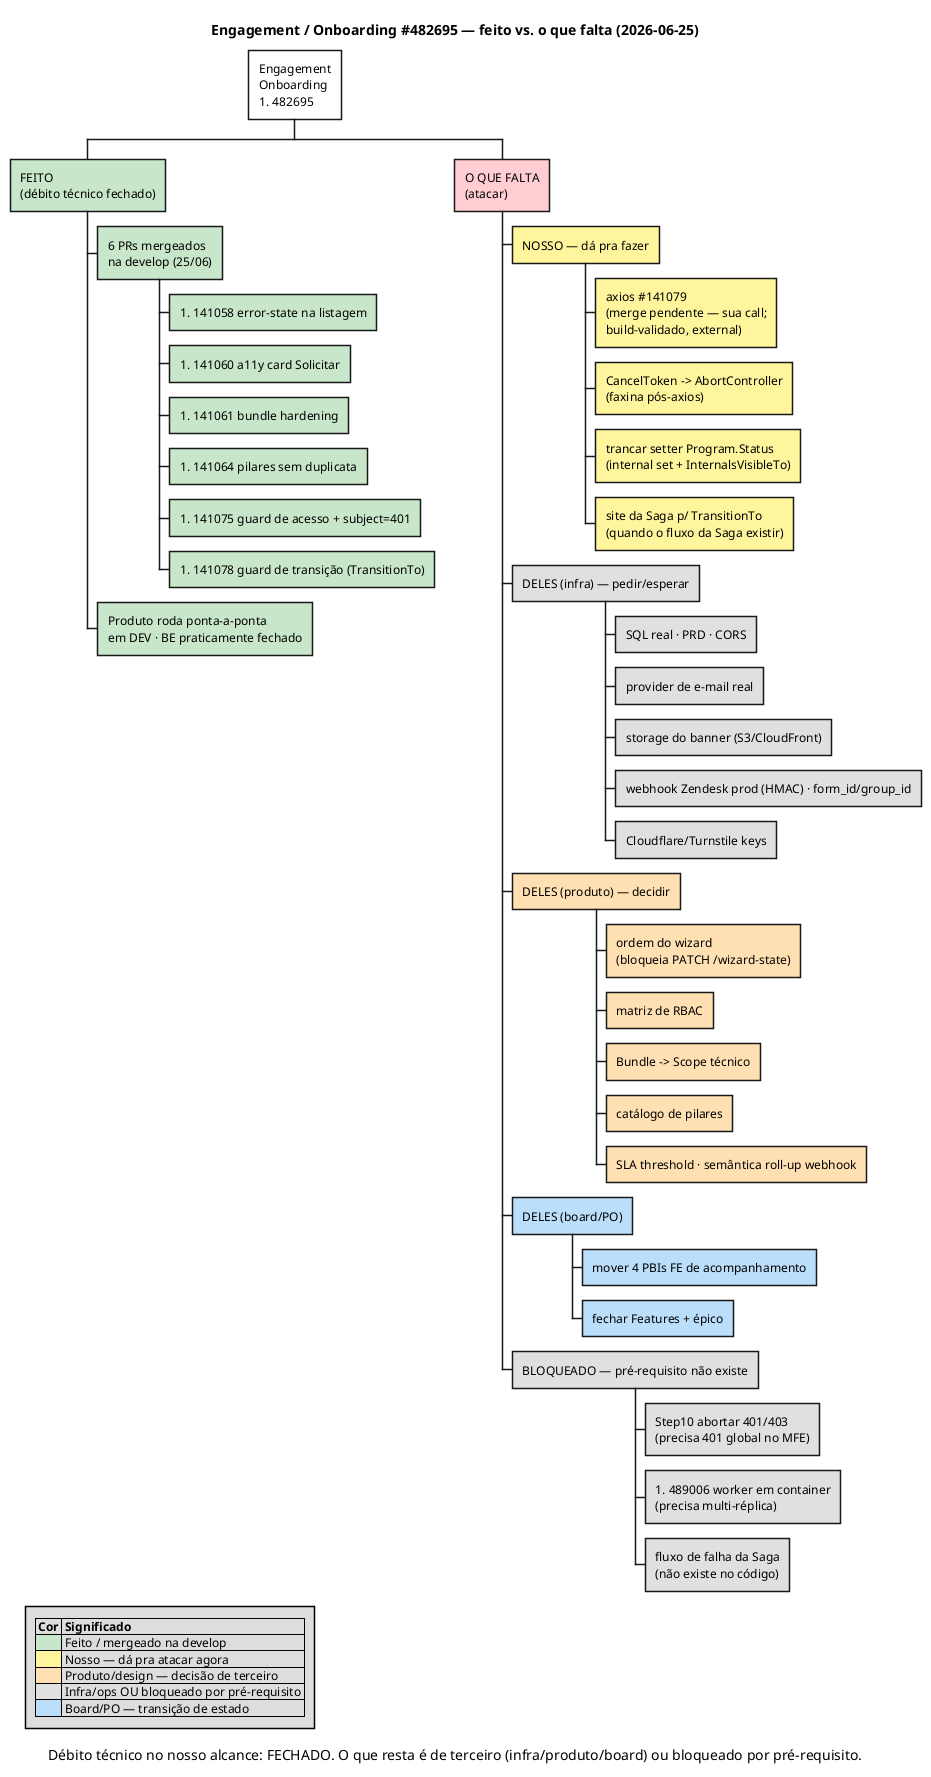
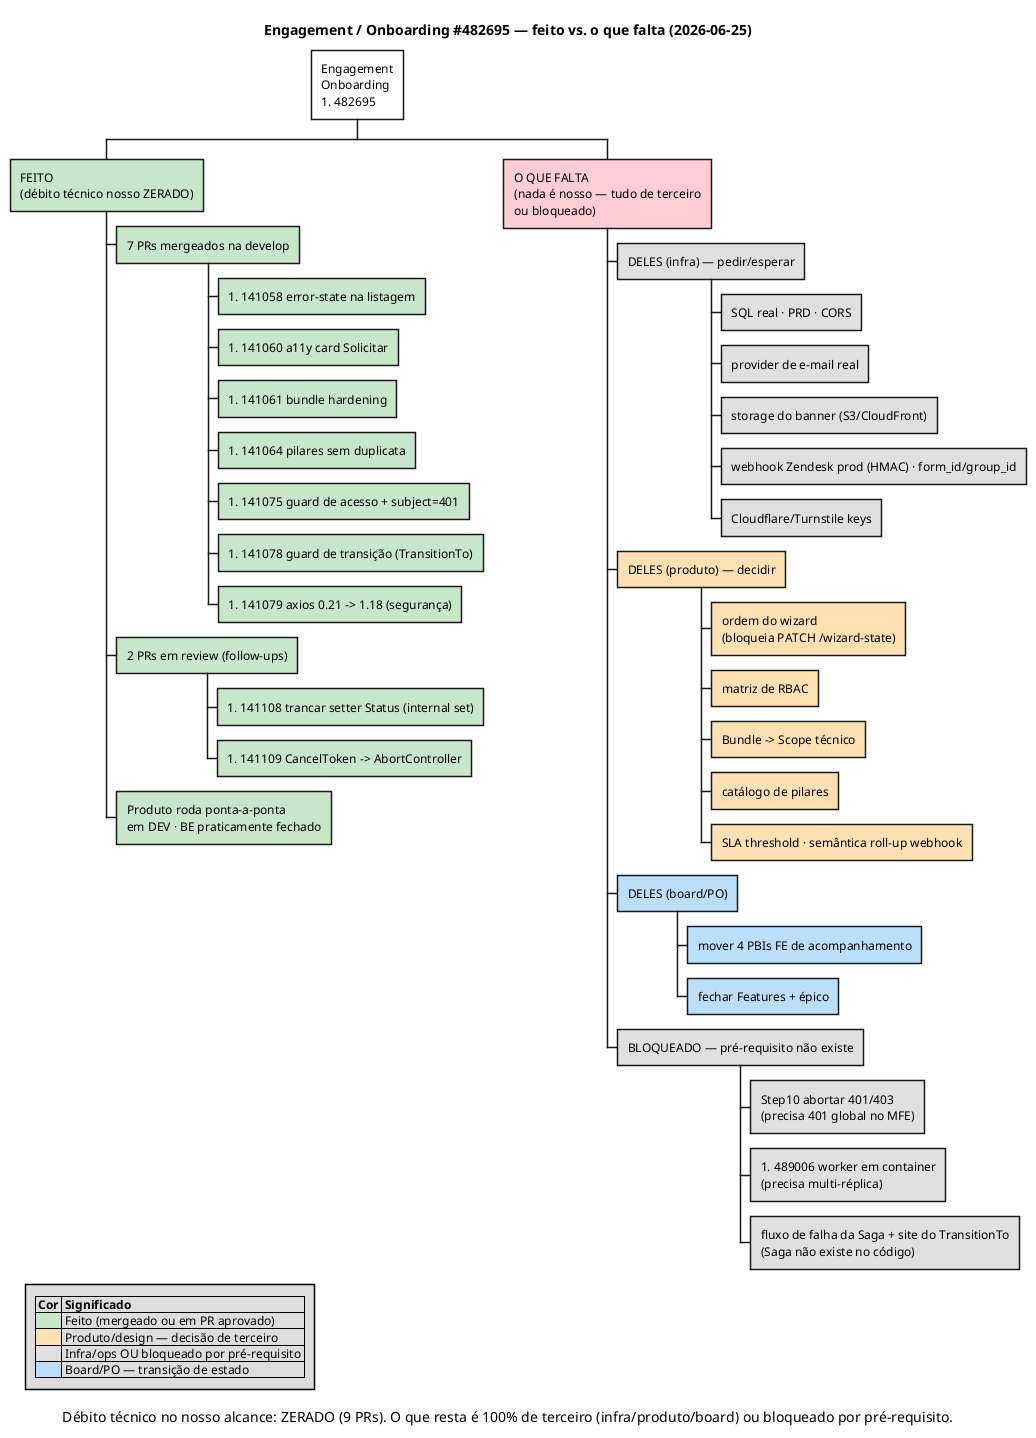
docs(onboarding): débito técnico nosso ZERADO — fecha setter lock (#141108) + AbortController (#141109)

diff --git a/docs/onboarding/pendencias.md b/docs/onboarding/pendencias.md
@@ -22,9 +22,10 @@ Leva fechando o débito de código que estava **no nosso alcance**. 7 PRs aberto
 ### Follow-ups novos (gerados nesta leva)
 
 - **Migration in-place #487205 — confirmar premissa:** o `defaultValue` da `20260608142056_AddBundleSelectionToProgram` foi editado de `""` p/ `"[]"` **assumindo que nenhum SQL persistente aplicou a migration ainda** (DEV roda InMemory). Confirmar com o time antes de promover; se algum ambiente já aplicou, o default lá fica `""` (inócuo — o reader trata `IsNullOrEmpty`).
-- **Setter de `Program.Status` segue público** — `TransitionTo` guarda os 4 sites reais, mas o setter não está trancado (ergonomia de EF + seed do `ProgramBuilder`). Trancar de vez exigiria `internal set` + `InternalsVisibleTo`/factory. Dívida menor aceita.
+- ~~**Setter de `Program.Status` segue público**~~ — RESOLVIDO (25/06): trancado com `internal set` + `[InternalsVisibleTo]` (Test.Shared/Unit/Integration). Produção só muda via `TransitionTo` (compiler-verified, CS0272 se houvesse set cru); EF materializa via reflection; seed de teste via InternalsVisibleTo. **PR #141108**.
 - **Fluxo de falha de provisionamento da Saga sem site de `TransitionTo`** — o `CanTransitionTo` permite `Provisioning→Failed`/`Failed→Provisioning`, mas nenhum código dispara hoje (a Saga de reversão não existe). Quando entrar, usar `TransitionTo` (não setar `Status` direto).
-- **axios `CancelToken` → `AbortController`** — o bump #141079 manteve `CancelToken` (deprecated, mas funcional no 1.x; sai só no 2.x). Migrar os 8 arquivos quando fizer a faxina.
+- ~~**axios `CancelToken` → `AbortController`**~~ — RESOLVIDO (25/06): migrados os 9 fontes (services + hooks + Step3) de `CancelToken.source()` p/ `AbortController` (`signal`/`abort()`); `Axios.isCancel` mantido. tsc 0 + jest 316. **PR #141109**.
+- **`useOnboarding.ts` é código morto** (nenhum caller; `Promise<any>` em todos os métodos + bug pré-existente de `signal` indo como body do POST em `activate`/`inactivate`). Candidato a remover o arquivo + a interface em `adminContext.ts`. Achado no review do #141109.
 - **axios 1.x: serialização de `status[]` em query** — o default mudou (`status[]=...`). O `SearchProgramsParams.status` é `string[]` mas **nenhum caller passa hoje** (filtro de status sem UI). Quando ligar o filtro, conferir o formato que o binder do .NET espera (`status=A&status=B`) e, se preciso, fixar `paramsSerializer` no `Axios.create`.
 
 ## Sprint 1 — Hype (entregue)
